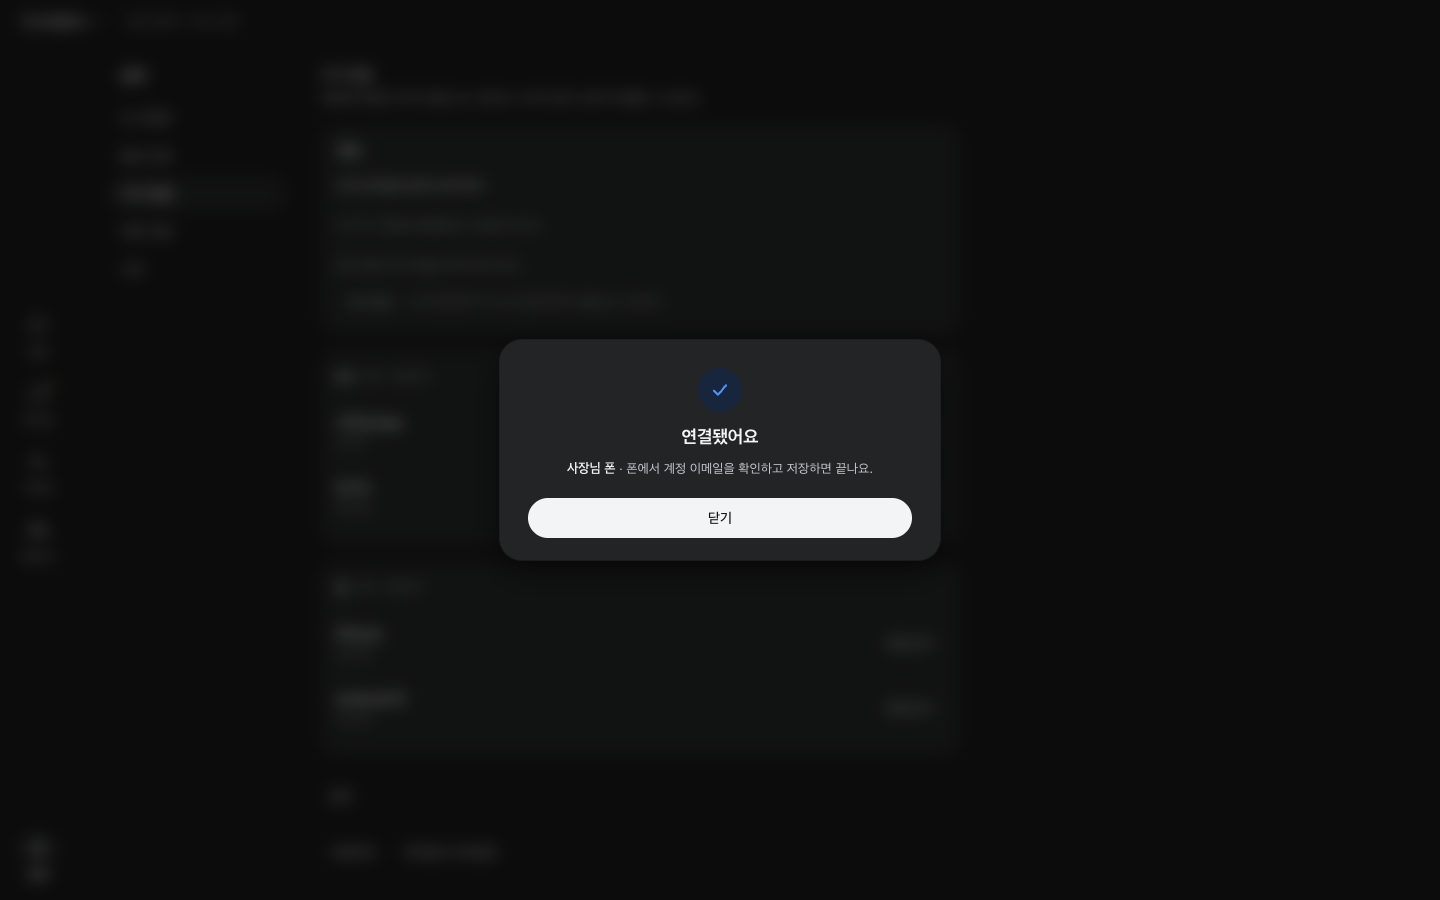
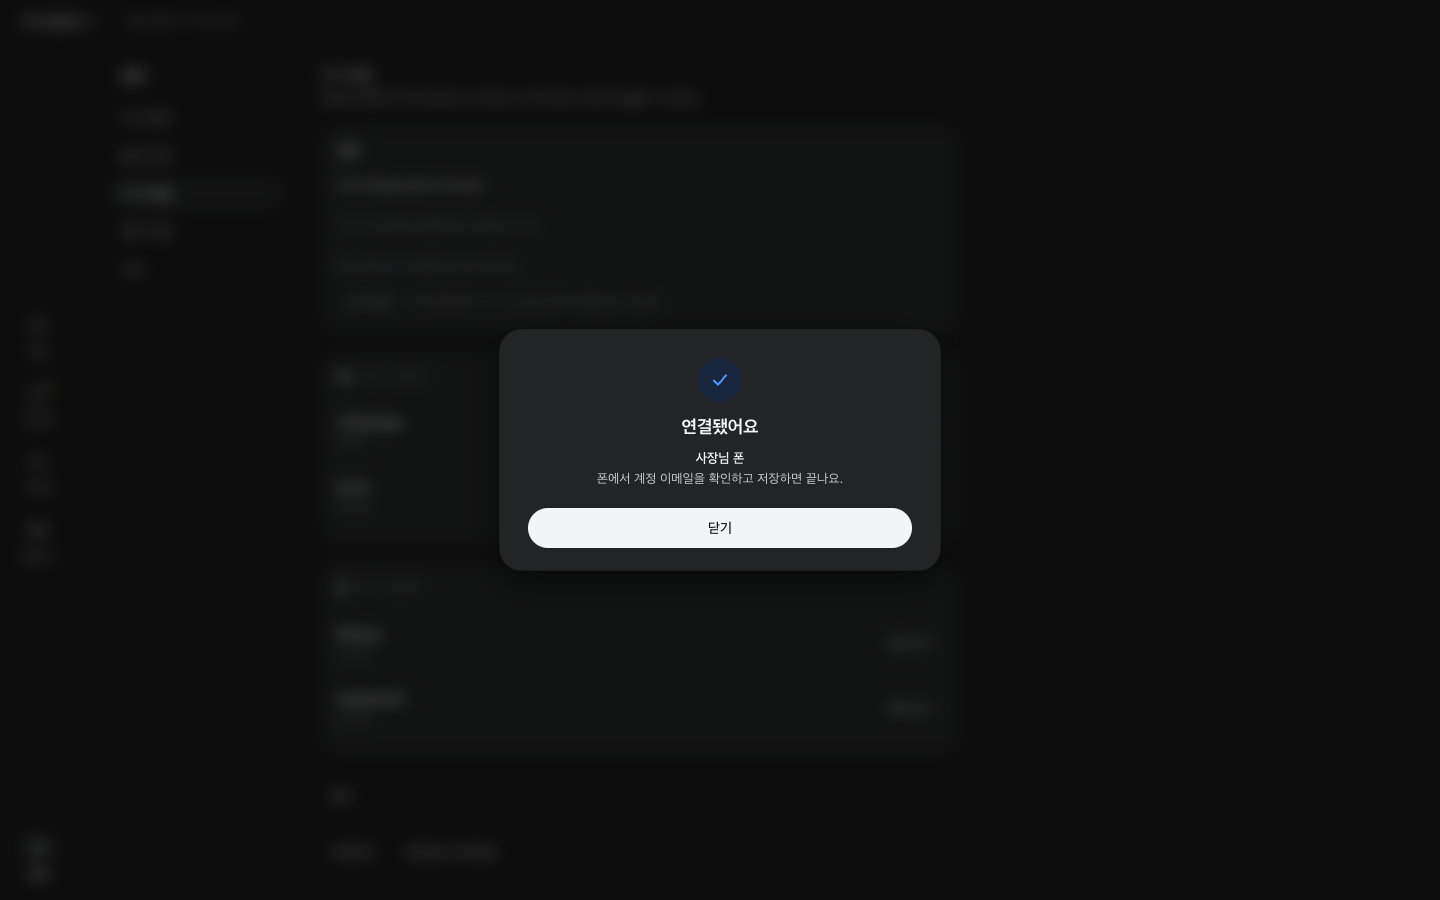
폰 연결: 연결됐어요 문구에서 가운뎃점을 뺐다(줄 나눔)

Changed region(s): [[0.3438, 0.4667, 0.6562, 0.6533]]

diff --git a/poc/apps/desktop/static/shell/shell-pair.js b/poc/apps/desktop/static/shell/shell-pair.js
@@ -84,7 +84,7 @@ export function pairSection(v, act, busy = false, now = Date.now(), inModal = fa
   if (v.step === 'paired')
     return panel(
       {},
-      h('div', { class: 'pair-head' }, mark('done'), h('div', { class: 'pair-head-t' }, h('p', { class: 'pair-title', 'data-pair-done': '' }, '연결됐어요'), h('p', { class: 'sx-meta' }, h('span', { 'data-pair-phone': '' }, v.phoneName || '폰'), ' · 폰에서 계정 이메일을 확인하고 저장하면 끝나요.'))),
+      h('div', { class: 'pair-head' }, mark('done'), h('div', { class: 'pair-head-t' }, h('p', { class: 'pair-title', 'data-pair-done': '' }, '연결됐어요'), h('p', { class: 'sx-meta' }, h('span', { 'data-pair-phone': '' }, v.phoneName || '폰'), h('br'), '폰에서 계정 이메일을 확인하고 저장하면 끝나요.'))),
       h('div', { class: 'sx-actions' }, cancel('닫기')),
     );
 
@@ -221,7 +221,7 @@ export function pairModal(v, act, busy = false, now = Date.now(), shake = false)
       ),
     ];
   } else if (v.step === 'paired') {
-    body = [head('done', '연결됐어요', phone(), ' · 폰에서 계정 이메일을 확인하고 저장하면 끝나요.'), h('div', { class: 'modal-acts' }, btn('닫기', act.cancel, 'sx-btn-primary sx-btn-lg', { 'data-act': 'pair-close' }))];
+    body = [head('done', '연결됐어요', phone(), h('br'), '폰에서 계정 이메일을 확인하고 저장하면 끝나요.'), h('div', { class: 'modal-acts' }, btn('닫기', act.cancel, 'sx-btn-primary sx-btn-lg', { 'data-act': 'pair-close' }))];
   } else {
     const expired = v.error === 'pair.expired';
     body = [
